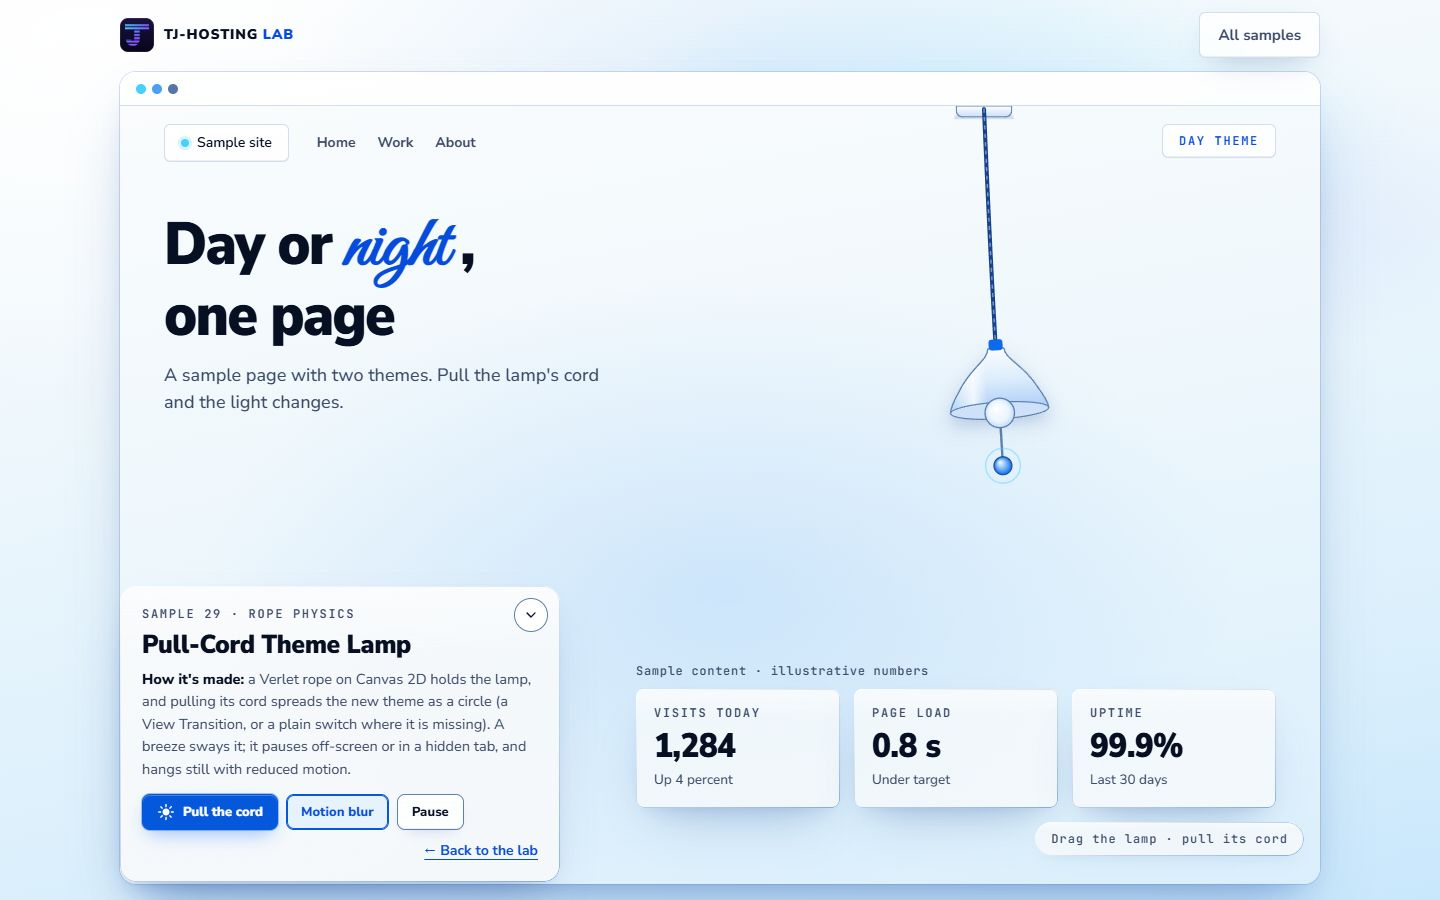
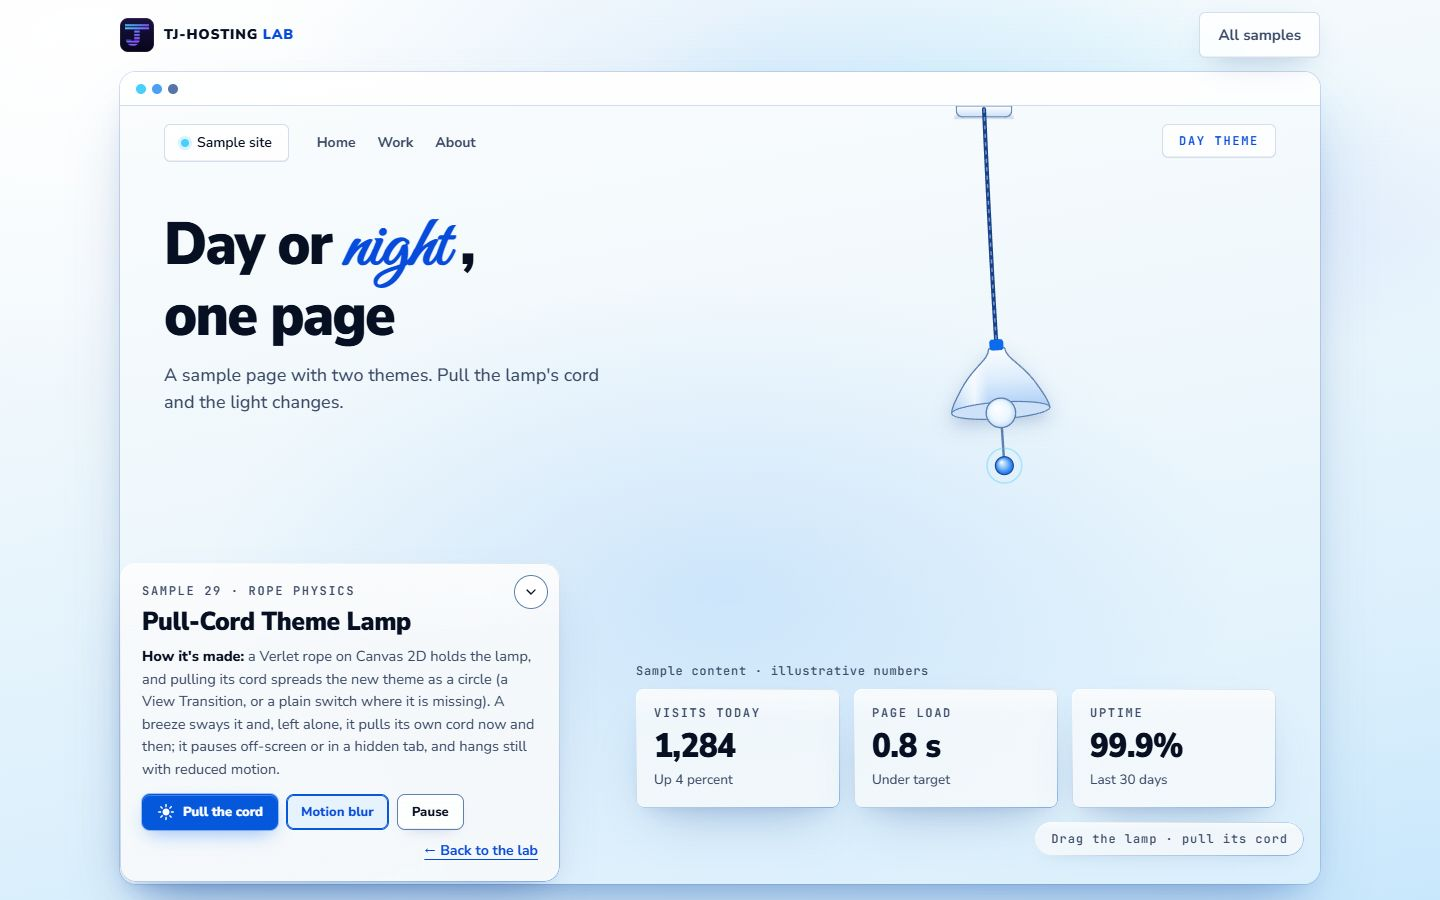
improve(lab-05): S26 lamp pulls its own cord when left alone
First self-pull after 9 s, then every 20 s while the loop runs (so never off-screen, in a hidden tab, paused or with reduced motion); any grab or pull restarts the count. Re-gated: PASS, median 16.7 ms.

diff --git a/samples/lamp-cord-theme/piece.js b/samples/lamp-cord-theme/piece.js
@@ -434,6 +434,7 @@ function bindHandle(el, kind) {
 		if (!lamp.grab(kind, px, py)) return;
 		try { el.setPointerCapture(ev.pointerId); } catch { /* a pointer that is already gone */ }
 		drag = { id: ev.pointerId, el, kind, x0: px, y0: py, moved: false, t0: performance.now(), side: px < lamp.bottom.pos.x ? 1 : -1 };
+		touched();
 		el.classList.add('is-drag');
 	});
 	el.addEventListener('pointermove', (ev) => {
@@ -450,7 +451,17 @@ function bindHandle(el, kind) {
 
 /* ---------- start ---------- */
 
+// idle life: left alone, the lamp pulls its own cord now and then (first after 9 s, then every 20 s), so the other
+// theme shows without a visitor's tug; any grab or pull starts the 20 s again. Only counts while the loop runs.
+let idle = 0;
+let idleNext = 9;
+const touched = () => { idle = 0; idleNext = 20; };
+
 function frame(dt) {
+	if (!drag) {
+		idle += dt;
+		if (idle > idleNext) { touched(); lamp.tug(); }
+	}
 	lamp.step(dt);
 	glow += ((night ? 1 : 0) - glow) * (1 - Math.exp(-6 * dt));
 	if (Math.abs((night ? 1 : 0) - glow) < 0.004) glow = night ? 1 : 0;
@@ -497,7 +508,7 @@ function start() {
 	draw();
 	ctl = loop(canvas, frame, { name: 'lamp-cord-theme' });
 
-	pullBtn.addEventListener('click', () => { lamp.tug(); });
+	pullBtn.addEventListener('click', () => { touched(); lamp.tug(); });
 	blurBtn.addEventListener('click', () => {
 		blurOn = blurBtn.getAttribute('aria-pressed') !== 'true';
 		blurBtn.setAttribute('aria-pressed', String(blurOn));

diff --git a/samples/lamp-cord-theme/index.html b/samples/lamp-cord-theme/index.html
@@ -79,7 +79,7 @@
 		<p class="eyebrow">Sample 29 · Rope physics</p>
 		<h1 id="piece-title">Pull-Cord Theme Lamp</h1>
 		<p class="how"><b>How it's made:</b> a Verlet rope on Canvas 2D holds the lamp, and pulling its cord spreads the new theme as a circle (a View Transition, or a plain switch where it is missing).
-		A breeze sways it; it pauses off-screen or in a hidden tab, and hangs still with reduced motion.</p>
+		A breeze sways it and, left alone, it pulls its own cord now and then; it pauses off-screen or in a hidden tab, and hangs still with reduced motion.</p>
 		<div class="controls">
 			<button class="btn btn--sm btn--primary" type="button" data-action="pull" data-theme="day">
 				<svg class="tmorph" viewBox="0 0 24 24" aria-hidden="true">

diff --git a/evidence/lab-05/samples/lamp-cord-theme/check.md b/evidence/lab-05/samples/lamp-cord-theme/check.md
@@ -1,6 +1,6 @@
 # check-sample: lamp-cord-theme — PASS
 
-2026-10-28T05:13:00.161Z · Chromium WebGL: ANGLE (AMD, AMD Radeon (TM) Graphics (0x000015E7) Direct3D11 vs_5_0 ps_5_0, D3D11) · Firefox: not run (browserType.launch: spawn UNKNOWN)
+2026-10-28T05:47:17.965Z · Chromium WebGL: ANGLE (AMD, AMD Radeon (TM) Graphics (0x000015E7) Direct3D11 vs_5_0 ps_5_0, D3D11) · Firefox: not run (browserType.launch: spawn UNKNOWN)
 
 ## Notes
 - loads 10 local files: samples/lamp-cord-theme/index.html, css/glass.css, css/lab.css, css/sample.css, samples/lamp-cord-theme/piece.css, js/early.js, samples/lamp-cord-theme/piece.js, js/lab.js, samples/lamp-cord-theme/lamp.js, samples/lamp-cord-theme/rope.js
@@ -16,7 +16,7 @@
 ## Shell contrast (Chromium)
 width | selector | # | polarity | text | worst behind | ratio | need
 ---|---|---|---|---|---|---|---
-1440 | .sample-info .eyebrow | 0 | dark | rgb(59, 74, 102) | rgb(246, 249, 251) | 8.43 | 4.5
+1440 | .sample-info .eyebrow | 0 | dark | rgb(59, 74, 102) | rgb(247, 250, 251) | 8.49 | 4.5
 1440 | .sample-info h1 | 0 | dark | rgb(7, 16, 34) | rgb(244, 247, 250) | 17.66 | 3
 1440 | .sample-info .how | 0 | dark | rgb(59, 74, 102) | rgb(243, 246, 249) | 8.21 | 4.5
 1440 | .controls .back | 0 | dark | rgb(6, 75, 219) | rgb(241, 245, 249) | 6.31 | 4.5
@@ -24,10 +24,10 @@ width | selector | # | polarity | text | worst behind | ratio | need
 1440 | .controls .btn | 1 | dark | rgb(6, 75, 219) | rgb(230, 243, 252) | 6.12 | 4.5
 1440 | .controls .btn | 2 | dark | rgb(7, 16, 34) | rgb(251, 252, 252) | 18.47 | 4.5
 1440 | .hint | 0 | dark | rgb(59, 74, 102) | rgb(238, 245, 249) | 8.09 | 4.5
-375 | .sample-info .eyebrow | 0 | dark | rgb(59, 74, 102) | rgb(247, 249, 251) | 8.44 | 4.5
-375 | .sample-info h1 | 0 | dark | rgb(7, 16, 34) | rgb(243, 246, 250) | 17.51 | 3
-375 | .sample-info .how | 0 | dark | rgb(59, 74, 102) | rgb(241, 245, 249) | 8.13 | 4.5
-375 | .controls .back | 0 | dark | rgb(6, 75, 219) | rgb(242, 246, 250) | 6.37 | 4.5
+375 | .sample-info .eyebrow | 0 | dark | rgb(59, 74, 102) | rgb(246, 248, 251) | 8.37 | 4.5
+375 | .sample-info h1 | 0 | dark | rgb(7, 16, 34) | rgb(243, 247, 250) | 17.62 | 3
+375 | .sample-info .how | 0 | dark | rgb(59, 74, 102) | rgb(242, 246, 249) | 8.20 | 4.5
+375 | .controls .back | 0 | dark | rgb(6, 75, 219) | rgb(243, 246, 250) | 6.38 | 4.5
 375 | .controls .btn | 0 | light | rgb(255, 255, 255) | rgb(5, 88, 220) | 6.11 | 4.5
 375 | .controls .btn | 1 | dark | rgb(7, 16, 34) | rgb(252, 253, 253) | 18.63 | 4.5
 375 | .controls .btn | 2 | dark | rgb(7, 16, 34) | rgb(250, 251, 252) | 18.32 | 4.5

diff --git a/TASKS-lab-05.md b/TASKS-lab-05.md
@@ -152,7 +152,7 @@ None yet.
 - [P5] S47: the tick fires on every centre crossing (about 40 a second) at an untuned level; thin it (e.g. one voice per crossing of the middle bob group, or a rate cap) and set a gentle level.
 - [P5] S10: the word sits in a mostly empty screen; add faint ambient dithered currents across the field so the whole window lives.
 - [P5] S46: the drawn trail is thin and faint on the sky; bolder royal trail with a brighter pen tip.
-- [P5] S26: the night theme never shows unless someone pulls; an idle pull every 20 s or so would show the twist at a glance.
+- [P5] S26: the night theme never shows unless someone pulls; an idle pull every 20 s or so would show the twist at a glance. **Done 05:48Z**: first self-pull after 9 s, then every 20 s; a grab or pull restarts the count. Probe: night at about 10 s, day again at about 30 s, no errors; re-gated 16.7 ms.
 - [P5] S36: at rest the beams are often between runs; keep at least two in flight so the idle hub always shows light moving.
 - [P5] S22: the curtain is subtle in a still; stronger folds or a corner already torn so the twist reads at a glance.
 - [P5] C04 (glitch card) reads as a stacked block; regenerate with clearer offset strips if the budget allows.
